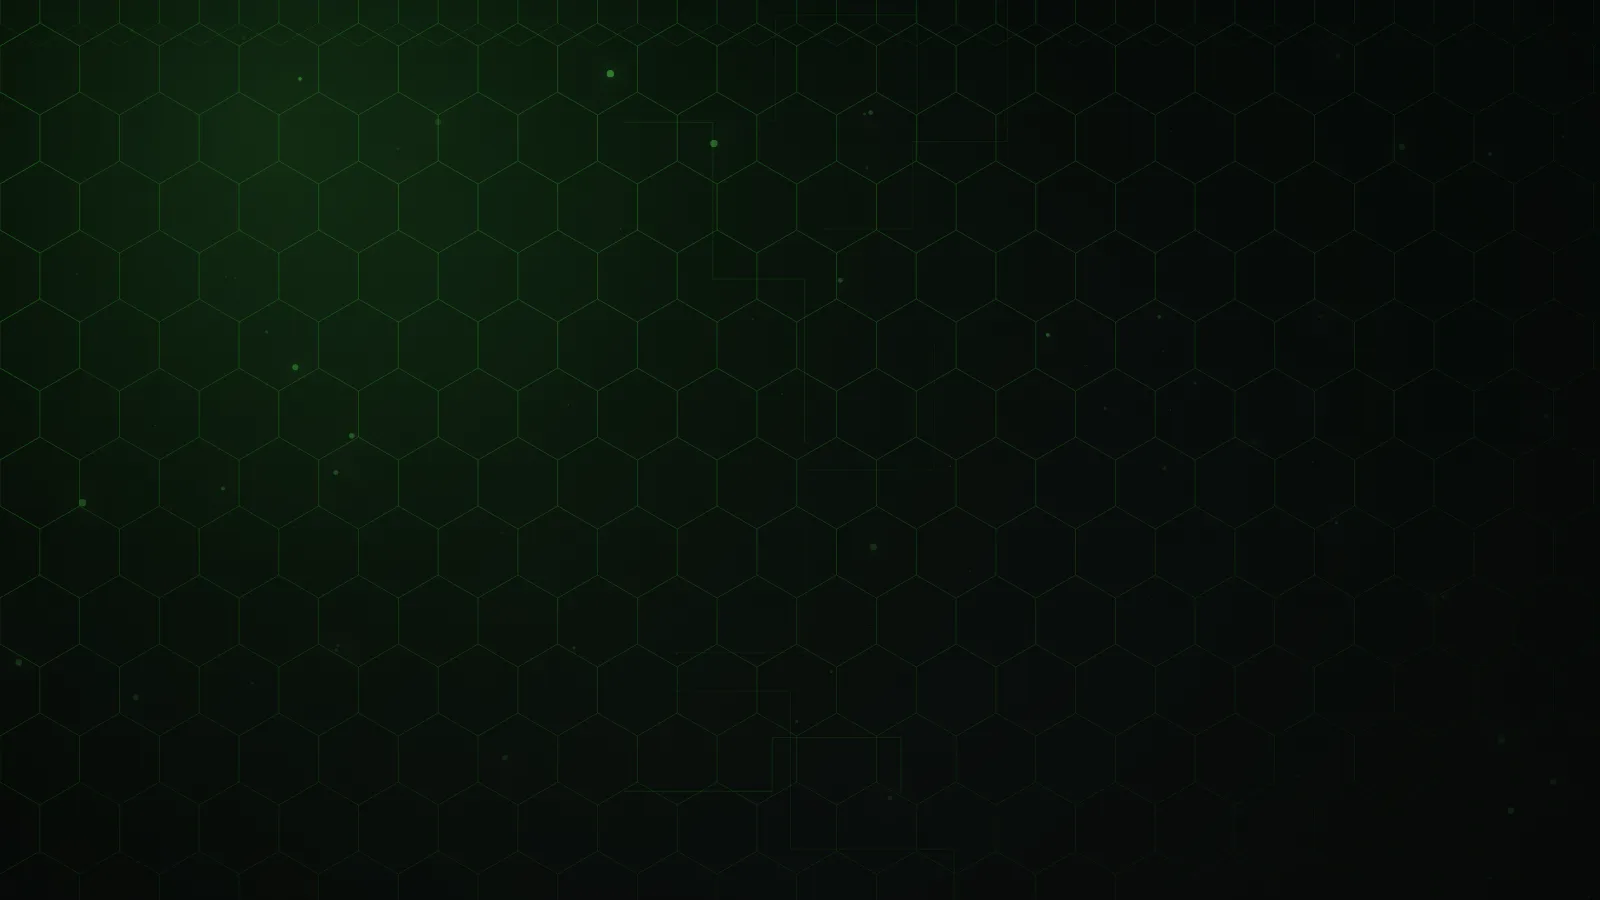
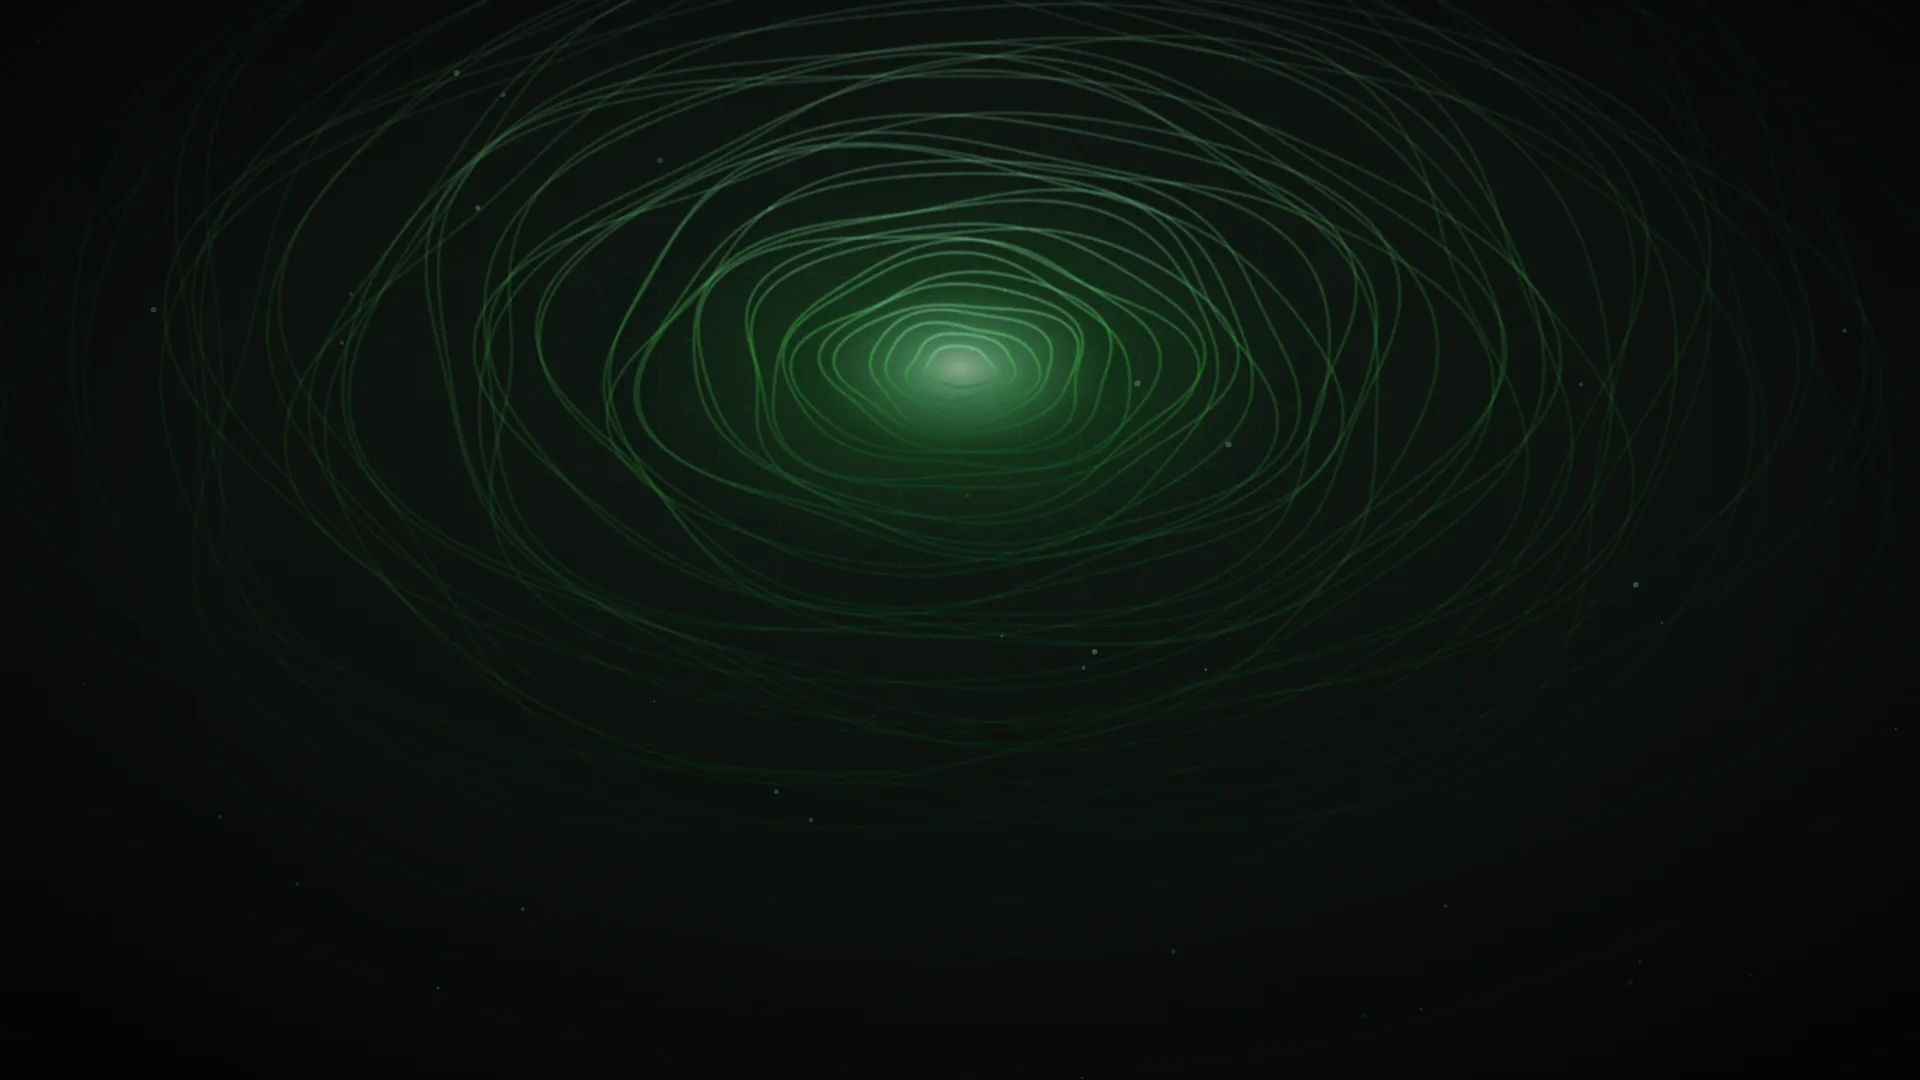
New brand creatives: 'Ascendant Strata' backgrounds (canvas-design)
Replace the hero/atmosphere backdrops with new on-brand CodeTier creatives —
luminous topographic contours rising from a summit (mastery as elevation),
veiled hex lattice, single neon voice, atmospheric depth + film grain. Design
philosophy in docs/criativos/. Rendered via scripts/gen-brand-creatives.ts
(npm run brand:art); WebP: hero 47KB, atmos 23KB.

diff --git a/scripts/gen-brand-creatives.ts b/scripts/gen-brand-creatives.ts
@@ -1,0 +1,141 @@
+/**
+ * "Ascendant Strata" — criativos de marca CodeTier (fundos do app).
+ * Contornos topográficos luminosos que sobem de um cume, lattice hexagonal
+ * velado, uma única voz neon, profundidade atmosférica. SVG → Chromium → PNG.
+ *   npm run brand:art
+ */
+import { chromium } from "@playwright/test";
+import { mkdirSync } from "node:fs";
+import { dirname, join } from "node:path";
+import { fileURLToPath } from "node:url";
+
+const outDir = join(dirname(fileURLToPath(import.meta.url)), "..", "out", "criativos");
+mkdirSync(outDir, { recursive: true });
+
+// pseudo-aleatório determinístico
+const rand = (i: number) => {
+  const x = Math.sin(i * 12.9898 + 78.233) * 43758.5453;
+  return x - Math.floor(x);
+};
+
+type Variant = {
+  file: string;
+  w: number;
+  h: number;
+  cx: number; // foco (cume) x, fração
+  cy: number; // foco y, fração
+  rings: number;
+  ringStep: number;
+  r0: number;
+  yScale: number;
+  maxOpacity: number;
+  glow: number; // raio do brilho do cume (px)
+  particles: number;
+};
+
+// contornos topográficos orgânicos em torno do cume, esmaecendo com o raio
+function contours(v: Variant): string {
+  const cx = v.cx * v.w;
+  const cy = v.cy * v.h;
+  let out = "";
+  for (let i = 0; i < v.rings; i++) {
+    const r = v.r0 + i * v.ringStep;
+    const seed = i * 7.13;
+    const pts: string[] = [];
+    const steps = 220;
+    for (let s = 0; s <= steps; s++) {
+      const a = (s / steps) * Math.PI * 2;
+      // perturbação de baixa frequência → contorno orgânico, não círculo
+      const wob =
+        Math.sin(a * 3 + seed) * (r * 0.06) +
+        Math.sin(a * 5 + seed * 1.7) * (r * 0.035) +
+        Math.sin(a * 2 + seed * 0.5) * (r * 0.05);
+      const rr = r + wob;
+      const x = cx + rr * Math.cos(a);
+      const y = cy + rr * Math.sin(a) * v.yScale;
+      pts.push(`${x.toFixed(1)},${y.toFixed(1)}`);
+    }
+    // esmaecimento atmosférico: anéis distantes somem
+    const t = i / v.rings;
+    const op = (v.maxOpacity * Math.pow(1 - t, 1.45)).toFixed(3);
+    const sw = (1.6 - t * 0.9).toFixed(2);
+    out += `<polyline points="${pts.join(" ")}" fill="none" stroke="url(#neon)" stroke-width="${sw}" opacity="${op}" stroke-linejoin="round"/>`;
+  }
+  return out;
+}
+
+function particles(v: Variant): string {
+  let out = "";
+  for (let i = 0; i < v.particles; i++) {
+    const x = rand(i) * v.w;
+    const y = rand(i + 91) * v.h;
+    const s = 0.8 + rand(i + 7) * 2.2;
+    const o = (0.06 + rand(i + 3) * 0.22).toFixed(3);
+    out += `<circle cx="${x.toFixed(1)}" cy="${y.toFixed(1)}" r="${s.toFixed(1)}" fill="#9CFFC0" opacity="${o}"/>`;
+  }
+  return out;
+}
+
+function svg(v: Variant): string {
+  const cx = v.cx * v.w;
+  const cy = v.cy * v.h;
+  return `<svg width="${v.w}" height="${v.h}" viewBox="0 0 ${v.w} ${v.h}" xmlns="http://www.w3.org/2000/svg">
+  <defs>
+    <radialGradient id="base" cx="${(v.cx * 100).toFixed(0)}%" cy="${(v.cy * 100).toFixed(0)}%" r="95%">
+      <stop offset="0%" stop-color="#0E1A13"/>
+      <stop offset="45%" stop-color="#0A0E0C"/>
+      <stop offset="100%" stop-color="#050806"/>
+    </radialGradient>
+    <linearGradient id="neon" x1="0" y1="0" x2="0" y2="1" gradientUnits="objectBoundingBox">
+      <stop offset="0%" stop-color="#9CFFC0"/>
+      <stop offset="42%" stop-color="#4DE84A"/>
+      <stop offset="100%" stop-color="#155E26"/>
+    </linearGradient>
+    <radialGradient id="summit" cx="50%" cy="50%" r="50%">
+      <stop offset="0%" stop-color="#CFFFD9" stop-opacity="0.62"/>
+      <stop offset="16%" stop-color="#7CF59A" stop-opacity="0.4"/>
+      <stop offset="44%" stop-color="#2FAF3C" stop-opacity="0.16"/>
+      <stop offset="100%" stop-color="#1C8F2A" stop-opacity="0"/>
+    </radialGradient>
+    <filter id="grain"><feTurbulence type="fractalNoise" baseFrequency="0.85" numOctaves="2" stitchTiles="stitch"/><feColorMatrix type="saturate" values="0"/></filter>
+    <pattern id="hex" width="60" height="68" patternUnits="userSpaceOnUse" patternTransform="rotate(0)">
+      <path d="M30 0 L60 17 L60 51 L30 68 L0 51 L0 17 Z" fill="none" stroke="#4DE84A" stroke-width="1" opacity="0.18"/>
+    </pattern>
+    <filter id="soft" x="-30%" y="-30%" width="160%" height="160%"><feGaussianBlur stdDeviation="1.1"/></filter>
+    <radialGradient id="vig" cx="50%" cy="46%" r="75%">
+      <stop offset="55%" stop-color="#000" stop-opacity="0"/>
+      <stop offset="100%" stop-color="#000" stop-opacity="0.72"/>
+    </radialGradient>
+  </defs>
+
+  <rect width="${v.w}" height="${v.h}" fill="url(#base)"/>
+  <!-- lattice hexagonal velado, mascarado para sumir nas bordas -->
+  <rect width="${v.w}" height="${v.h}" fill="url(#hex)" opacity="0.5"
+        style="mask: radial-gradient(60% 60% at ${(v.cx * 100).toFixed(0)}% ${(v.cy * 100).toFixed(0)}%, #000, transparent 78%)"/>
+  <!-- brilho do cume -->
+  <ellipse cx="${cx}" cy="${cy}" rx="${v.glow}" ry="${(v.glow * v.yScale).toFixed(0)}" fill="url(#summit)"/>
+  <!-- contornos topográficos -->
+  <g filter="url(#soft)">${contours(v)}</g>
+  ${particles(v)}
+  <!-- grão: textura material, como uma chapa revelada -->
+  <rect width="${v.w}" height="${v.h}" filter="url(#grain)" opacity="0.05" style="mix-blend-mode:overlay"/>
+  <rect width="${v.w}" height="${v.h}" fill="url(#vig)"/>
+</svg>`;
+}
+
+const variants: Variant[] = [
+  // HERO — expressão plena, cume no terço superior-central
+  { file: "hero-codetier.png", w: 1920, h: 1080, cx: 0.5, cy: 0.34, rings: 60, ringStep: 20, r0: 34, yScale: 0.6, maxOpacity: 0.72, glow: 340, particles: 44 },
+  // ATMOS — versão calma, cume bem no alto, muito espaço negativo embaixo (é mascarado)
+  { file: "atmos-codetier.png", w: 1920, h: 1080, cx: 0.42, cy: 0.18, rings: 44, ringStep: 24, r0: 32, yScale: 0.52, maxOpacity: 0.52, glow: 290, particles: 30 },
+];
+
+const browser = await chromium.launch();
+for (const v of variants) {
+  const page = await browser.newPage({ viewport: { width: v.w, height: v.h }, deviceScaleFactor: 1 });
+  await page.setContent(`<!doctype html><meta charset="utf-8"><style>html,body{margin:0;padding:0;background:#050806}svg{display:block}</style>${svg(v)}`, { waitUntil: "networkidle" });
+  await page.screenshot({ path: join(outDir, v.file), type: "png", clip: { x: 0, y: 0, width: v.w, height: v.h } });
+  await page.close();
+  console.log(`✓ out/criativos/${v.file}`);
+}
+await browser.close();

diff --git a/docs/criativos/filosofia-ascendant-strata.md b/docs/criativos/filosofia-ascendant-strata.md
@@ -1,0 +1,13 @@
+# Ascendant Strata
+
+**Philosophy:** Mastery rendered as elevation. Light that climbs out of darkness in patient, measured layers.
+
+Ascendant Strata treats the void as the primary material. The field begins as a deep, near-black expanse — not empty, but charged, the way a night sky is charged before the eye adjusts. From this darkness, structure does not appear; it *emerges*, as if developed slowly in a chemical bath. Form is earned, never declared. The composition rewards the patient viewer with depth that reveals itself in passes: a faint lattice beneath, contours rising through the middle distance, a single luminous convergence held far back like a summit seen through weather. This is the product of painstaking attention — every gradient calibrated, every line weighted, nothing arbitrary.
+
+**Space and form** move through atmospheric perspective. Elements nearest the viewer carry the most light and the crispest edge; everything receding dissolves into fog, losing contrast and gaining mystery. Depth is built not with objects but with *air* — layered translucency, the soft fall-off of glow, the sense that one could walk into the image. Negative space dominates; the work breathes. The eye travels upward and inward, drawn along the strata toward the quiet, radiant horizon.
+
+**Color and material** speak in a single chromatic voice against the dark: one disciplined neon that ranges from a cool, electric crest to a deep, almost-extinguished base. The restraint is total — no second hue competes. This is not minimalism by poverty but by mastery; a colorist who has removed everything that does not serve. The neon behaves like light, not paint: it bleeds, it blooms at the edges, it leaves afterimages in the black. Material honesty comes from grain and luminance, the faint vignette, the imperfection that proves a human hand and countless hours of refinement.
+
+**Scale and rhythm** are governed by repetition that accumulates into meaning — the topographic line drawn again and again, each pass slightly displaced, building a terrain through patient iteration the way a cartographer maps the invisible. A hexagonal grammar underlies everything, half-felt rather than seen, the geometric DNA that organizes the chaos. Rhythm is slow and deliberate; the marks are systematic, clinical, reverent, as though documenting an observable phenomenon that happens to be ephemeral. Master-level execution means the pattern never reads as mechanical — there is breath inside the system.
+
+**Composition and hierarchy** resolve into stillness. One focal luminance anchors the piece; all else defers to it through contrast and convergence. Text, if it exists at all, is a whisper — a single clinical marker, a coordinate, never a sentence — and most often it is absent entirely, because the design must stand as a pure visual object, equally at home as a silent backdrop or a framed print. Every alignment is the work of countless refinements. The finished piece should feel meticulously crafted, the labor of someone at the absolute top of their field — an artifact that proves something intangible can be studied, mapped, and made luminous through careful attention.